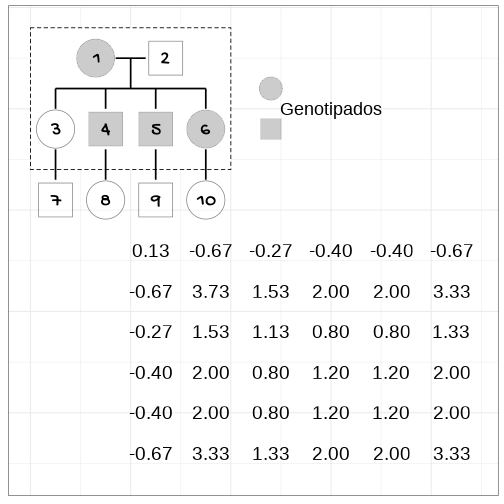
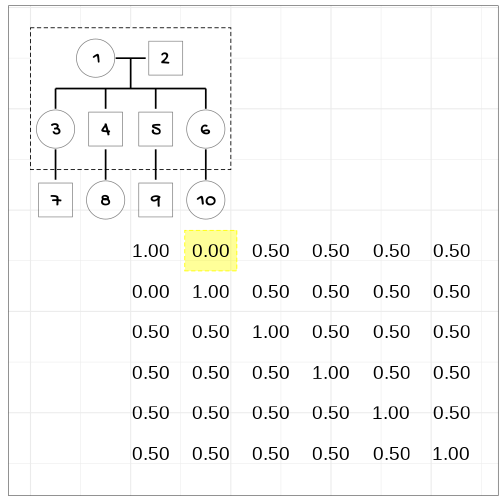
Se avanzó en la presentación.

diff --git a/Presentacion/index.html b/Presentacion/index.html
@@ -282,13 +282,17 @@ class: center
 
 &lt;img src="index_files/figure-html/unnamed-chunk-13-1.png" width="90%" style="display: block; margin: auto;" /&gt;
 
+&lt;P align="justify"&gt;Y las ecuaciones del modelo mixto para una evaluación genética de un solo paso son:&lt;/p&gt;
+
+&lt;img src="index_files/figure-html/unnamed-chunk-14-1.png" width="70%" style="display: block; margin: auto;" /&gt;
+
 ]
 
 .panel[.panel-name[Matriz de parentesco combinado - II]
 
 .pull-left[
 
-&lt;img src="index_files/figure-html/unnamed-chunk-14-1.png" width="90%" style="display: block; margin: auto;" /&gt;
+&lt;img src="index_files/figure-html/unnamed-chunk-15-1.png" width="100%" style="display: block; margin: auto;" /&gt;&lt;img src="index_files/figure-html/unnamed-chunk-15-2.png" width="100%" style="display: block; margin: auto;" /&gt;
 
 ]
 
@@ -296,7 +300,7 @@ class: center
 
 
 
-&lt;img src="index_files/figure-html/unnamed-chunk-15-1.png" width="90%" style="display: block; margin: auto;" /&gt;
+&lt;img src="index_files/figure-html/unnamed-chunk-16-1.png" width="100%" style="display: block; margin: auto;" /&gt;&lt;img src="index_files/figure-html/unnamed-chunk-16-2.png" width="100%" style="display: block; margin: auto;" /&gt;
 
 ]
 
@@ -306,7 +310,7 @@ class: center
 
 .footnote[
 
-&lt;P align="justify"&gt;&lt;FONT SIZE=2&gt;[1] &lt;a name=cite-cite14&gt;&lt;/a&gt;[Misztal, Aggrrey, and Muir (2012)](#bib-cite14).&lt;/FONT&gt;&lt;/p&gt;
+&lt;P align="justify"&gt;&lt;FONT SIZE=2&gt;[1] &lt;a name=cite-cite14&gt;&lt;/a&gt;[Misztal and et al (2012)](#bib-cite14).&lt;/FONT&gt;&lt;/p&gt;
 
 ]
 
@@ -331,9 +335,9 @@ pedigree and genomic information". In: _Journal of Dairy Science_ 92,
 p. 4656–4663. DOI:
 [10.3168/jds.2009-2061](https://doi.org/10.3168%2Fjds.2009-2061).
 
-&lt;a name=bib-cite14&gt;&lt;/a&gt;[Misztal, I., S. E. Aggrrey, and W. M.
-Muir](#cite-cite14) (2012). "Experiences with a single-step genome
-evaluation". In: _Poultry Science_ 92, p. 2530–2534.
+&lt;a name=bib-cite14&gt;&lt;/a&gt;[Misztal, I. and et al](#cite-cite14) (2012).
+"Experiences with a single-step genome evaluation". In: _Poultry
+Science_ 92, p. 2530–2534.
 
 &lt;a name=bib-cite7&gt;&lt;/a&gt;[Tong, H. and Z. Nikoloski](#cite-cite7) (2021).
 "Machine learning approaches for crop improvement: leveraging
